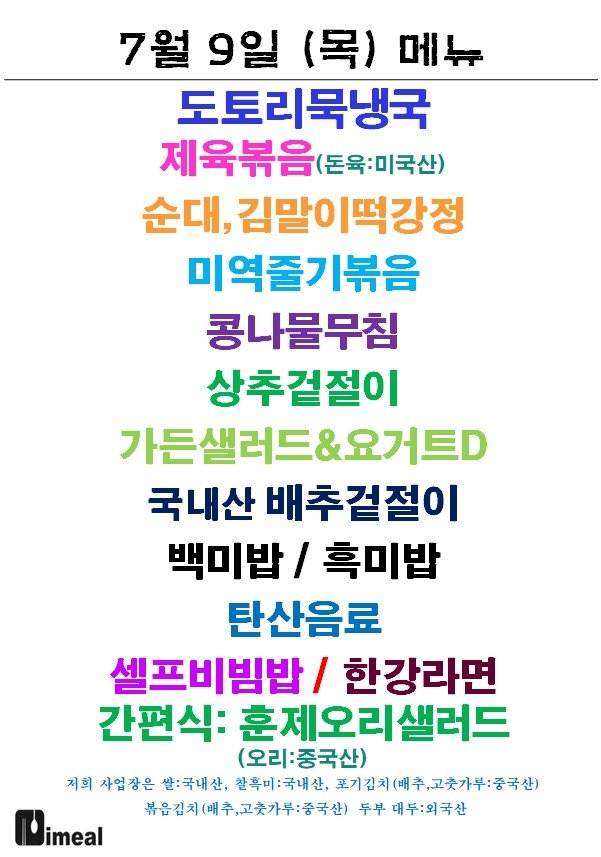
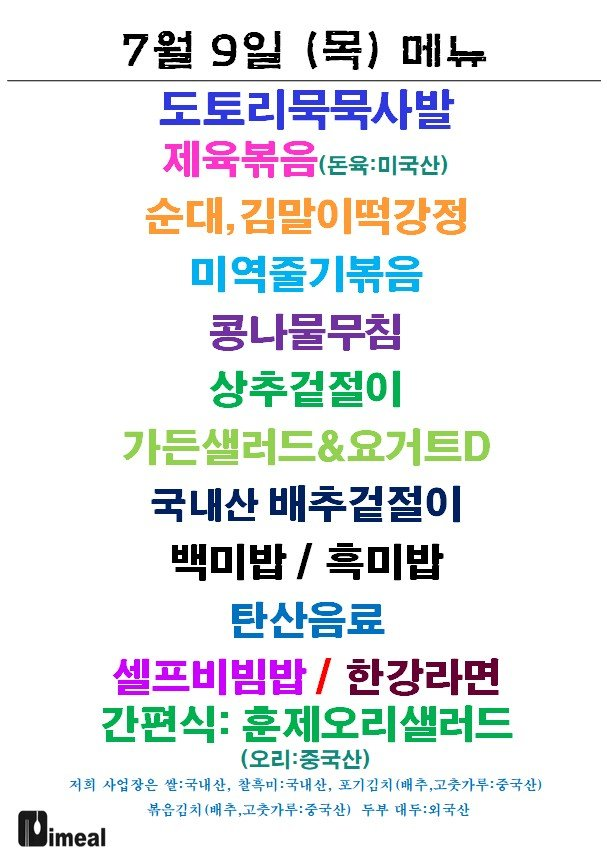
Update menu board assets

Changed region(s): [[0.0, 0.0303, 0.9884, 1.0]]

diff --git a/menu-today/index.html b/menu-today/index.html
@@ -209,7 +209,7 @@
 
     <section class="meta-bar">
       <div class="meta-card"><div class="meta-label">기준 날짜</div><div class="meta-value">2026년 7월 9일 목요일</div></div>
-      <div class="meta-card"><div class="meta-label">최종 가져온 시간</div><div class="meta-value">2026-07-09 09:48:05</div></div>
+      <div class="meta-card"><div class="meta-label">최종 가져온 시간</div><div class="meta-value">2026-07-09 10:03:50</div></div>
       <div class="meta-card"><div class="meta-label">확인 완료</div><div class="meta-value">9개 식당</div></div>
       <div class="meta-card"><div class="meta-label">준비중</div><div class="meta-value">3개 채널</div></div>
     </section>
@@ -225,7 +225,7 @@
             <div class="sub">현대테라타워 가산DK</div>
           </div>
         </div>
-        <div class="menu-inline-image"><img src="./images/imeal.png" alt="아이밀 식단 이미지"></div><ul><li>도토리묵냉국</li><li>순대,김말이떡강정</li><li>미역줄기볶음</li><li>콩나물무침</li><li>상추겉절이</li><li>가든샐러드</li><li>백미밥 / 흑미밥</li><li>무르처</li><li>즈겨전</li><li>타산을</li><li>가펴시</li><li>훈제오리샐러드</li></ul>
+        <div class="menu-inline-image"><img src="./images/imeal.png" alt="아이밀 식단 이미지"></div><ul><li>도토리묵묵사발</li><li>순대,김말이떡강정</li><li>미역줄기볶음</li><li>콩나물무침</li><li>상추겉절이</li><li>가든샐러드</li><li>백미밥 / 흑미밥</li><li>도토리묵</li><li>사발</li><li>타산을</li><li>가펴시</li><li>훈제오리샐러드</li><li>순대,김맡이떡강정</li></ul>
       </article>
 
       <article class="restaurant-card">
@@ -295,7 +295,7 @@
             <div class="sub">에이스테크노타워10차</div>
           </div>
         </div>
-        <div class="menu-inline-image"><img src="./images/thefoodsketch.png" alt="더푸드스케치 식단 이미지"></div><ul><li>황태해장국</li><li>훈제오리배추찜</li><li>볼키츠</li><li>감자전</li><li>참치무조림</li><li>견과류명치볶음</li><li>오이탕탕이</li><li>가든샐러드 / 드레싱</li><li>배추겉절이 / 음료</li></ul>
+        <div class="menu-inline-image"><img src="./images/thefoodsketch.png" alt="더푸드스케치 식단 이미지"></div><ul><li>황태해장국</li><li>훈제오리배추찜</li><li>볼키츠</li><li>감자전</li><li>참치무조림</li><li>견과류명치볶음</li><li>오이탕탕이</li><li>가든샐러드 &amp; 드레싱</li><li>배추겉절이 / 음료</li></ul>
       </article>
 
       <article class="restaurant-card">

diff --git a/guro-menu/index.html b/guro-menu/index.html
@@ -32,7 +32,7 @@
   </header>
   <section class="meta">
     <div><small>기준 날짜</small><strong>2026년 7월 9일 목요일</strong></div>
-    <div><small>최종 갱신</small><strong>2026-07-09 09:48:16</strong></div>
+    <div><small>최종 갱신</small><strong>2026-07-09 10:04:04</strong></div>
     <div><small>등록 식당</small><strong>5개</strong></div>
   </section>
   <div class="notice">공개 카카오 채널의 메뉴 이미지를 자동 수집하고 OCR로 정리합니다. 텍스트에 오타가 있을 수 있으니 식단 이미지를 함께 확인해 주세요.</div>
